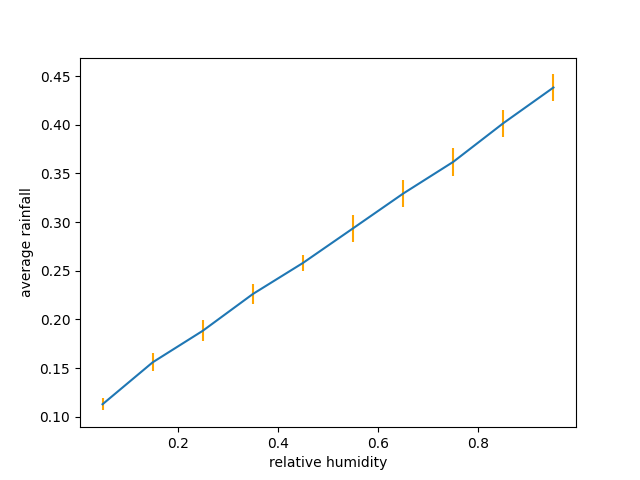
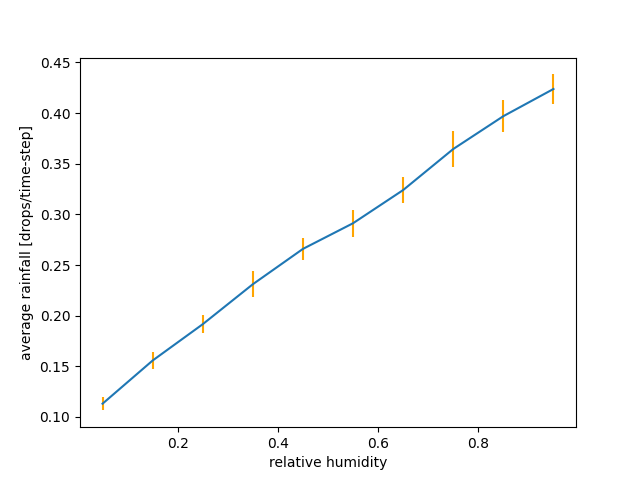
final plots

diff --git a/wind_and_dropssplitting.py b/wind_and_dropssplitting.py
@@ -203,12 +203,12 @@ def animate_CA(initial_grid, wind, steps, interval, fall_heigth,probablility_new
     plt.show()
     return averages, raind_count_list,total_drops_list,max_drop_size_list
 
-def plot_humidities(humidities, y, y_std,axis_name):
+def plot_humidities(humidities, y, y_std,axis_name, unit):
     """plot the outcomes of the simulation against the humidities"""
     plt.figure()
     plt.errorbar(humidities, y, yerr=y_std, ecolor='orange')
     plt.xlabel('relative humidity')
-    plt.ylabel(f'average {axis_name}')
+    plt.ylabel(f'average {axis_name} [{unit}]')
     plt.savefig(f'figures/{axis_name}_humidity')
 
 """run experiments and collect data"""
@@ -351,8 +351,8 @@ data = {
 collect_data(data)
 
 #plot
-plot_humidities(humidities, rain_means, rain_stds, 'rainfall')
-plot_humidities(humidities, size_means, size_stds, 'drop size')
-plot_humidities(humidities, total_means, total_stds, 'total drops')
-plot_humidities(humidities, max_drop_means, max_drop_stds, 'max drop size')
+plot_humidities(humidities, rain_means, rain_stds, 'rainfall', 'drops/time-step')
+plot_humidities(humidities, size_means, size_stds, 'drop size', '/time-step')
+plot_humidities(humidities, total_means, total_stds, 'total drops', '/time-step')
+plot_humidities(humidities, max_drop_means, max_drop_stds, 'max drop size', '/time-step')
 

diff --git a/validation.py b/validation.py
@@ -24,3 +24,17 @@ for season, ax in zip(seasons, axs.ravel()):
     ax.plot(humidity[season], a*humidity[season]+b, linestyle='--', linewidth=2)
 
 plt.savefig(f'figures/validation')
+
+#plot only one season
+for season in seasons:
+    plt.figure()
+    plt.scatter(humidity[season], rain[season], label=season)
+    plt.xlabel('relative humidity')
+    plt.ylabel('rainfall [mm]')
+
+    #best fit
+    a, b = np.polyfit(humidity[season], rain[season], 1)
+    plt.plot(humidity[season], a*humidity[season]+b, linestyle='--', linewidth=2)
+
+    plt.savefig(f'figures/validation_{season}')
+
